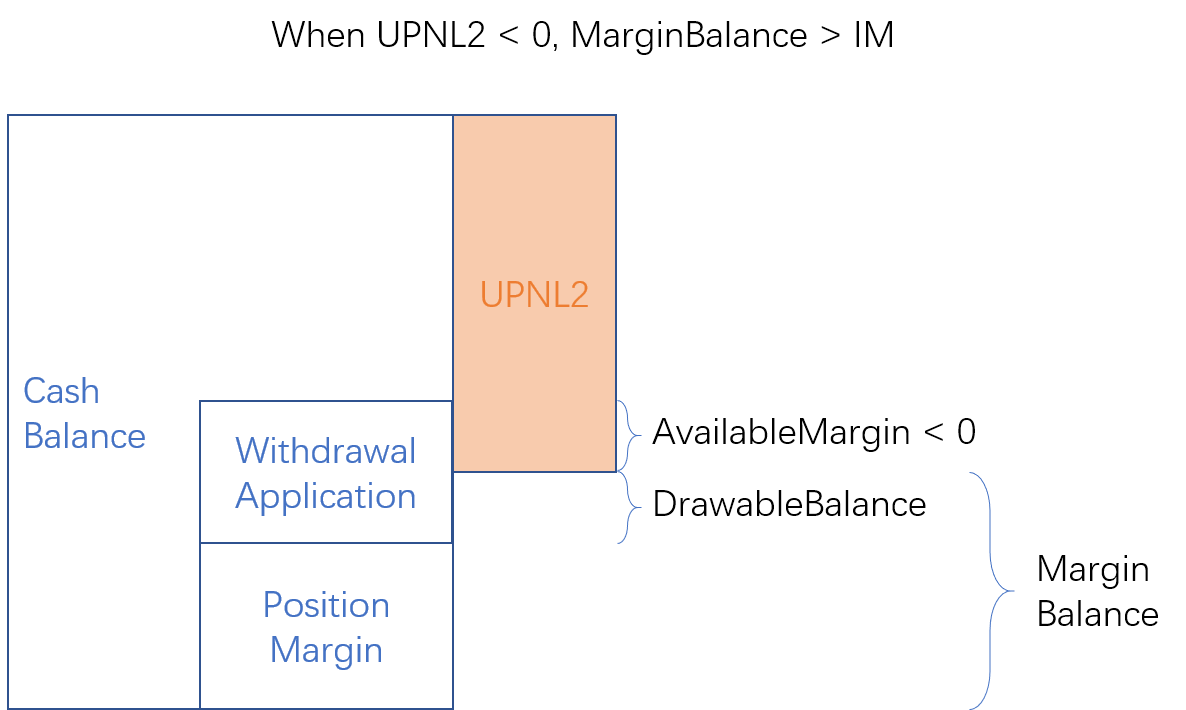
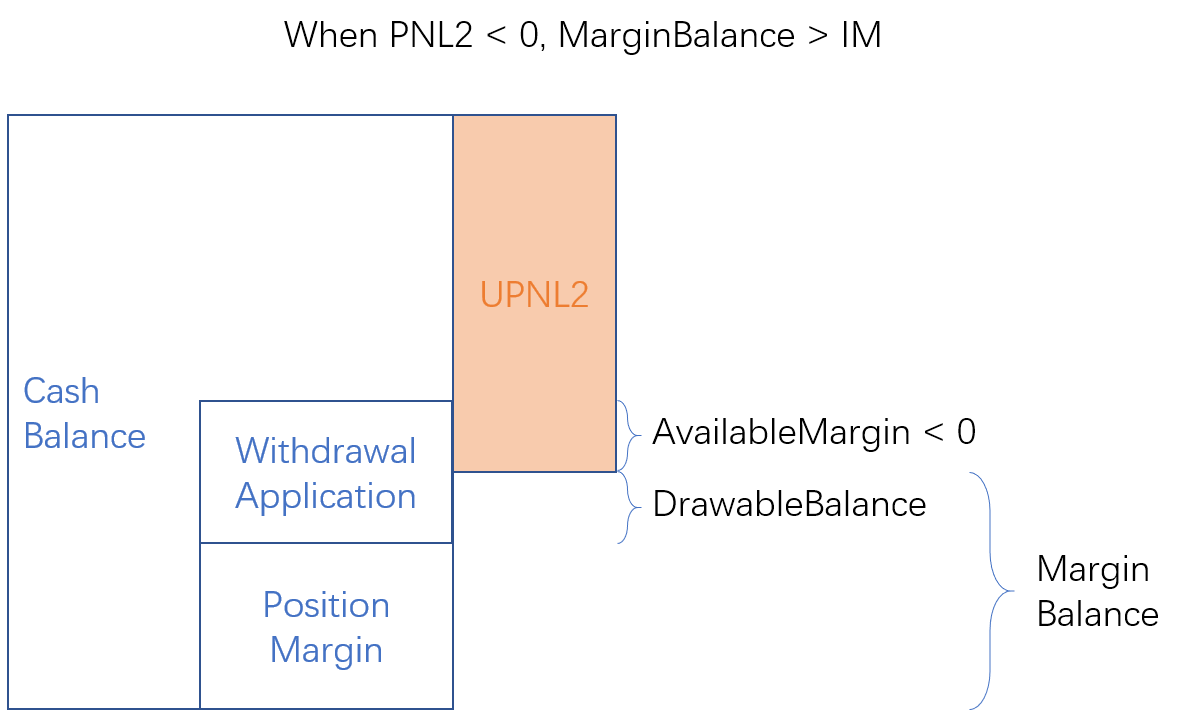
margin account

Changed region(s): [[0.2184, 0.031, 0.7487, 0.093]]

diff --git a/en/margin-account-model.md b/en/margin-account-model.md
@@ -1,9 +1,31 @@
-# Perpetual Margin Account Model
+# Perpetual Margin-Account Model
 
-* UPNL2 >= 0
+## On-Chain part
+
+| Term | Definition |
+|------|------------|
+| CashBalance | Deposited collateral |
+| MarginBalance | `CashBalance + PNL2` |
+| PositionMargin | `MarkPrice * PositionSize * IMRate` |
+| MaintenanceMargin | `MarkPrice * PositionSize * MMRate` |
+| AvailableMargin | The balance that can open new positions = `MarginBalance - PositionMargin - WithdrawalApplicationAmount` |
+| WithdrawableBalance | `MIN(MarginBalance - PositionMargin, WithdrawalApplicationAmount)` |
+| IsSafe | `MarginBalance >= MaintenanceMargin` |
+| PNL1 | Long position: `(MarkPrice - AvgEntryPrice) * PositionSize`<br>Short position: `(AvgEntryPrice - MarkPrice) * PositionSize` |
+| PNL2 | `PNL1 - SocialLoss - FundingLoss` |
+| WithdrawalApplicationAmount | Total number of withdrawal application submitted by the user |
+
+## Off-Chain part
+
+| Term | Definition |
+|------|------------|
+| OrderMargin | `MarkPrice * OrderSize * IMRate` |
+| AvailableBalance | `AvailableMargin - OrderMargin` |
+
+## Example: PNL2 >= 0
 
 ![margin-account](asset/margin-account-model-1.png)
 
-* UPNL2 < 0
+## Example: PNL2 < 0
 
 ![margin-account](asset/margin-account-model-2.png)

diff --git a/README.md b/README.md
@@ -4,16 +4,18 @@
 
 ### Overview
 * [A Brief Introduction](en/perpetual-brief-introduction.md)
-* TODO: The MarginAccount Model
+* [MCDEX references](https://mcdex.io/references/Perpetual)
+* [The Margin-Account Model](en/margin-account-model.md)
 * TODO: Contracts and Relationships
-* TODO: Security Design. Locks, Brokers
-* TODO: Exchange
+* TODO: Matching Engine and the Exchange Contract
 
 ### User's Guid
 * [How to Add Liquidity to AMM (english)](en/how-to-add-liquidity-to-amm.md)
 * [How to Add Liquidity to AMM (chinese)](cn/how-to-add-liquidity-to-amm.md)
+* [MCDex Order Book API](https://mcdex.io/doc/api)
 
 ### Contract Implementation and Development
+* TODO: Security Design. Locks, Brokers
 * TODO: Funding Rate Design
 * TODO: Contract Interfaces
 * [Admin Functions: What can the admin do](en/perpetual-admin-functions.md)
